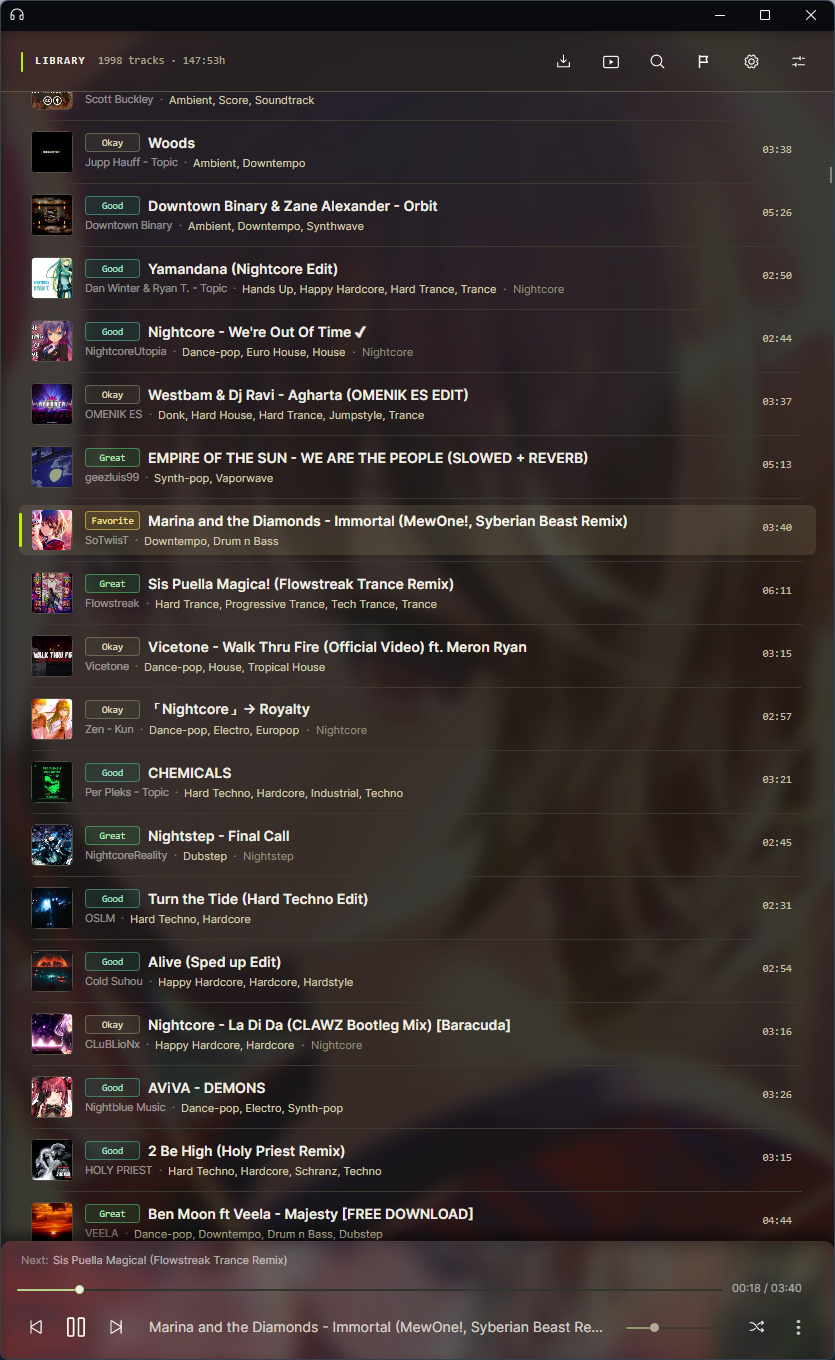
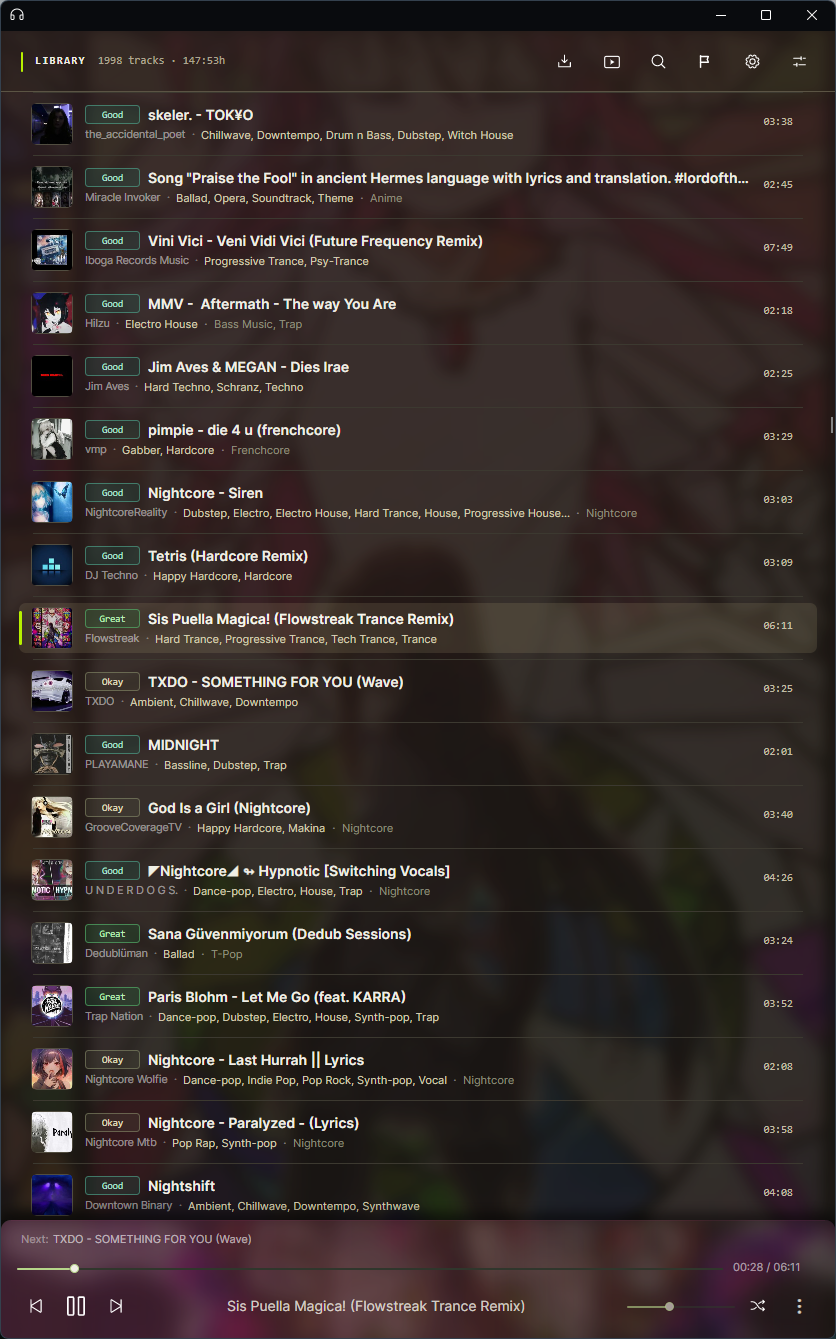
Fix Android player layout, transparent toolbar and missing media

diff --git a/Music.Companion/Views/MainView.axaml.cs b/Music.Companion/Views/MainView.axaml.cs
@@ -126,14 +126,14 @@ public partial class MainView : UserControl
         {
             ClearThumbnailCache();
             _loadedLibrary = await PortableLibraryStore.LoadAsync(CompanionServices.LibraryStorage.LibraryDirectory);
-            StatusText.Text = "";
+            SetStatus();
         }
         catch (Exception ex)
         {
             _loadedLibrary = new LoadedMusicLibrary(
                 CompanionServices.LibraryStorage.LibraryDirectory,
                 PortableMusicLibrary.Empty);
-            StatusText.Text = $"Could not load library: {ex.Message}";
+            SetStatus($"Could not load library: {ex.Message}");
         }
 
         PopulateFilters();
@@ -228,7 +228,7 @@ public partial class MainView : UserControl
         var path = _loadedLibrary.TrackPath(track);
         if (!File.Exists(path))
         {
-            StatusText.Text = $"Missing file: {path}";
+            SetStatus($"Missing file: {path}");
             return;
         }
 
@@ -246,11 +246,11 @@ public partial class MainView : UserControl
             UpdatePlayPauseIcon();
             UpdateReviewButton();
             UpdateMediaControls();
-            StatusText.Text = "";
+            SetStatus();
         }
         catch (Exception ex)
         {
-            StatusText.Text = $"Could not play {track.Title}: {ex.Message}";
+            SetStatus($"Could not play {track.Title}: {ex.Message}");
             ShowToast("This track could not be played");
         }
     }
@@ -931,7 +931,7 @@ public partial class MainView : UserControl
         var topLevel = TopLevel.GetTopLevel(this);
         if (topLevel?.StorageProvider.CanPickFolder != true)
         {
-            StatusText.Text = "Folder import is not available on this device.";
+            SetStatus("Folder import is not available on this device.");
             return;
         }
 
@@ -962,7 +962,7 @@ public partial class MainView : UserControl
     private async Task ImportLibraryArchiveAsync(IStorageFile selectedFile)
     {
         ImportButton.IsEnabled = false;
-        StatusText.Text = "";
+        SetStatus();
 
         var targetDirectory = CompanionServices.LibraryStorage.LibraryDirectory;
         var tempDirectory = targetDirectory + ".archive-import";
@@ -984,7 +984,7 @@ public partial class MainView : UserControl
         }
         catch (Exception ex)
         {
-            StatusText.Text = $"Import failed: {ex.Message}";
+            SetStatus($"Import failed: {ex.Message}");
         }
         finally
         {
@@ -998,7 +998,7 @@ public partial class MainView : UserControl
     private async Task ImportLibraryAsync(IStorageFolder selectedFolder)
     {
         ImportButton.IsEnabled = false;
-        StatusText.Text = "";
+        SetStatus();
         var tempDirectory = CompanionServices.LibraryStorage.LibraryDirectory + ".import";
 
         try
@@ -1006,7 +1006,7 @@ public partial class MainView : UserControl
             var sourceFolder = await FindLibraryFolderAsync(selectedFolder);
             if (sourceFolder is null)
             {
-                StatusText.Text = "Import folder must contain library.json and a tracks folder.";
+                SetStatus("Import folder must contain library.json and a tracks folder.");
                 return;
             }
 
@@ -1020,7 +1020,7 @@ public partial class MainView : UserControl
         }
         catch (Exception ex)
         {
-            StatusText.Text = $"Import failed: {ex.Message}";
+            SetStatus($"Import failed: {ex.Message}");
         }
         finally
         {
@@ -1035,7 +1035,7 @@ public partial class MainView : UserControl
     {
         if (!File.Exists(Path.Combine(sourceDirectory, PortableLibraryStore.FileName)))
         {
-            StatusText.Text = "Import must contain library.json.";
+            SetStatus("Import must contain library.json.");
             return;
         }
 
@@ -1237,6 +1237,12 @@ public partial class MainView : UserControl
         return time.TotalHours >= 1
             ? $"{(int)time.TotalHours}:{time.Minutes:D2}h"
             : $"{time.Minutes}:{time.Seconds:D2}m";
+    }
+
+    private void SetStatus(string? message = null)
+    {
+        StatusText.Text = message ?? string.Empty;
+        StatusText.IsVisible = !string.IsNullOrWhiteSpace(message);
     }
 
     private void ShuffleFilteredTracks()
